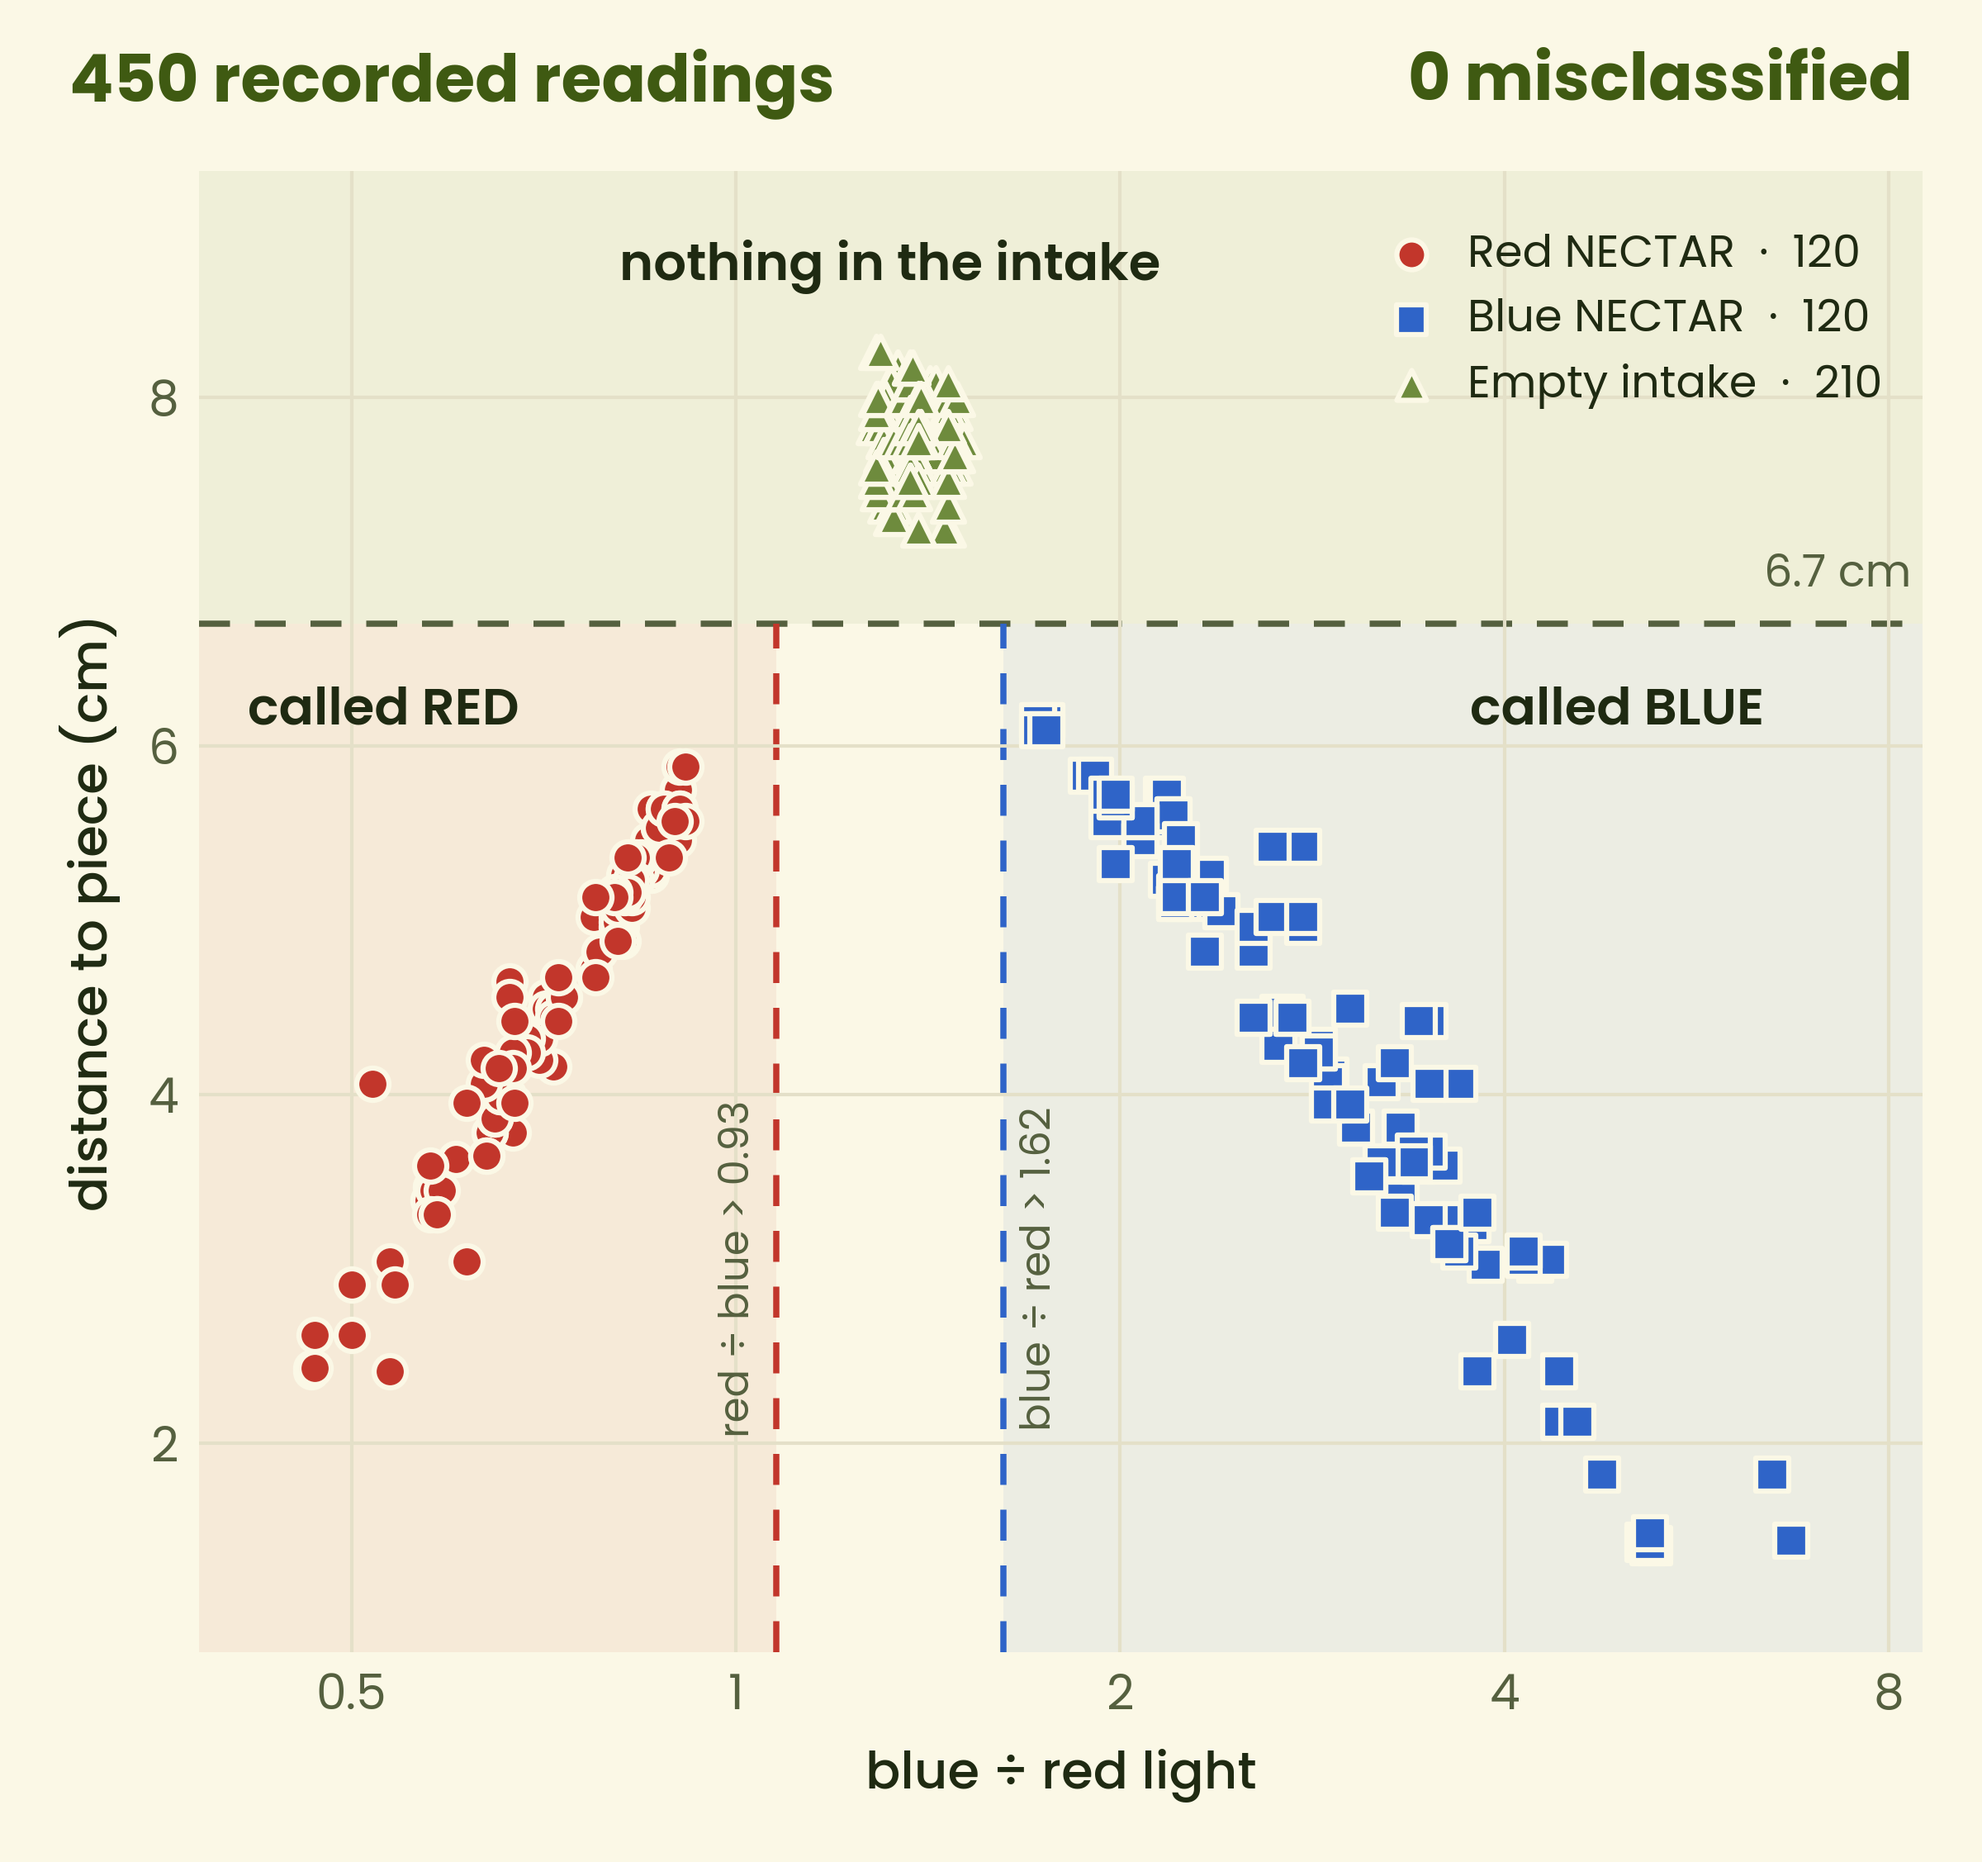
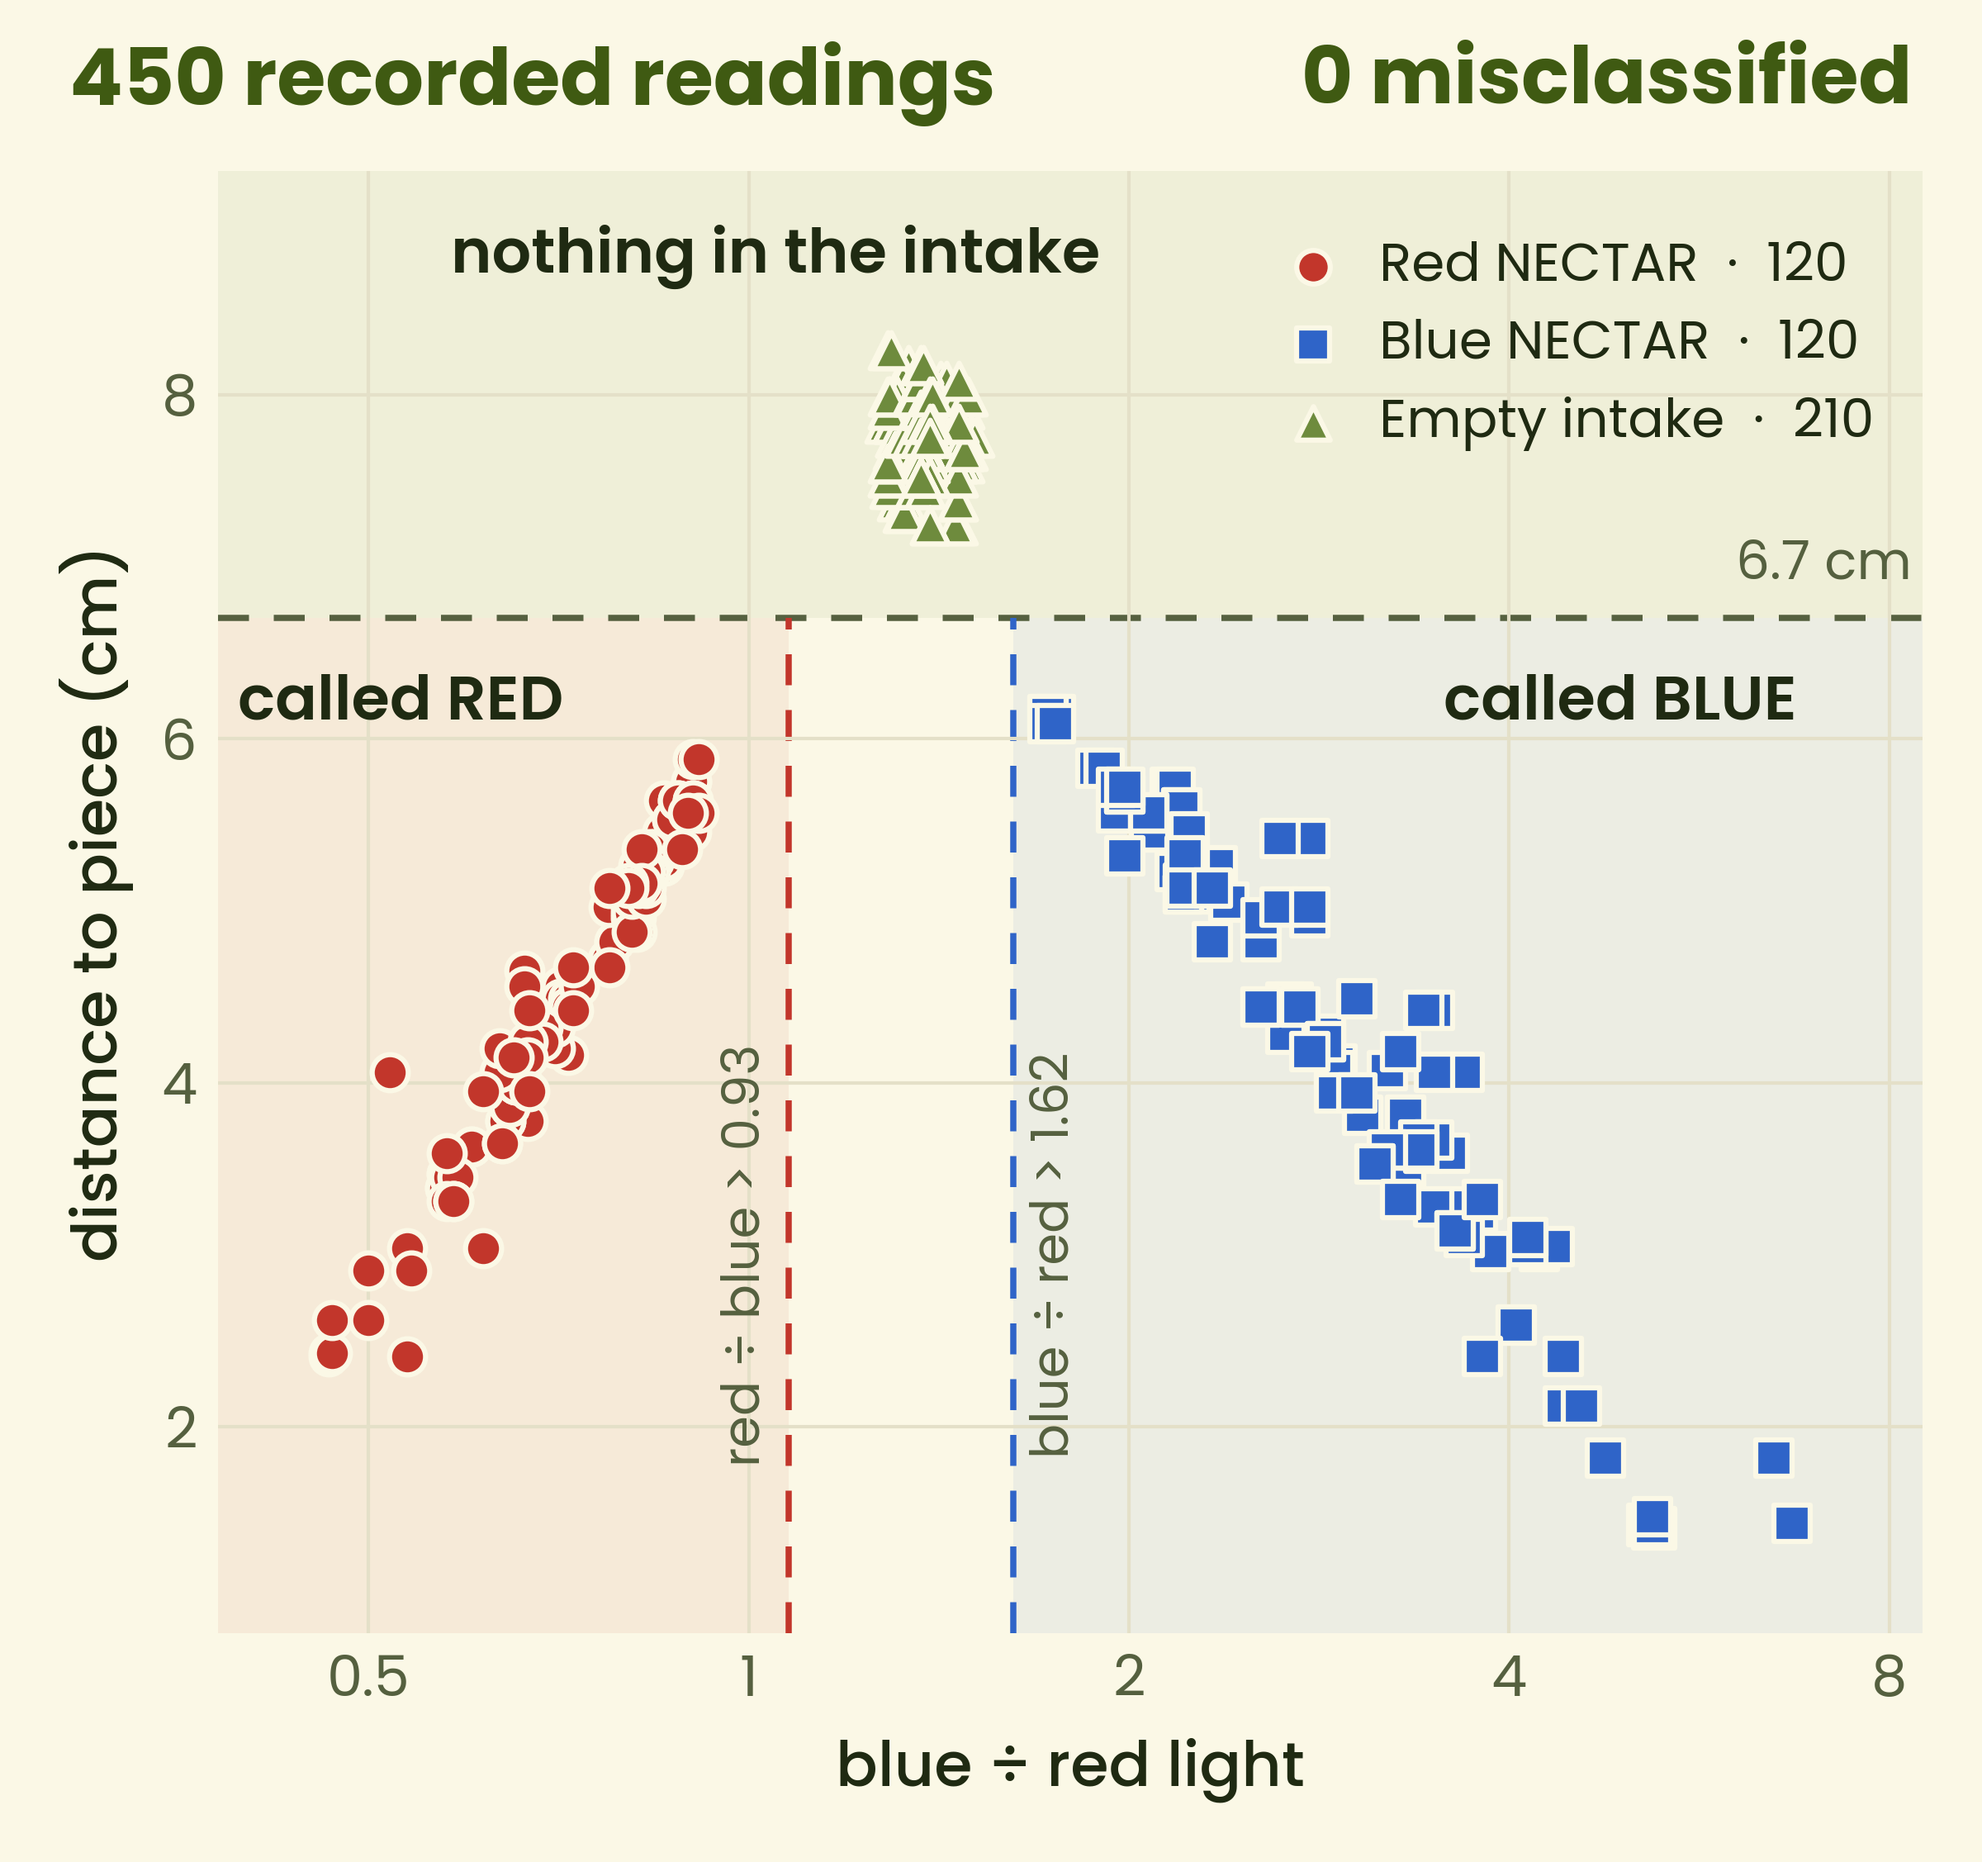
Portfolio chart: type sized for the slide (nothing under ~6 pt at panel scale) (tool)

diff --git a/tools/portfolio/color_reject_chart.py b/tools/portfolio/color_reject_chart.py
@@ -92,7 +92,7 @@ def main():
     for label, colour, marker, name in CLASSES:
         xs = [p[0] for p in pts[label]]
         ys = [p[1] for p in pts[label]]
-        ax.scatter(xs, ys, s=88, marker=marker, color=colour, edgecolors=SURFACE, linewidths=1.5, zorder=3,
+        ax.scatter(xs, ys, s=110, marker=marker, color=colour, edgecolors=SURFACE, linewidths=1.5, zorder=3,
                    label=f"{name}  ·  {len(xs)}")
 
     ax.set_xscale("log")
@@ -102,30 +102,30 @@ def main():
     ax.set_xticklabels(["0.5", "1", "2", "4", "8"])
     ax.set_xticks([], minor=True)
     ax.set_yticks([2, 4, 6, 8])
-    ax.set_xlabel("blue ÷ red light", color=INK, fontsize=15, fontweight="medium", labelpad=8)
-    ax.set_ylabel("distance to piece (cm)", color=INK, fontsize=15, fontweight="medium", labelpad=8)
-    ax.tick_params(colors=INK2, length=0, labelsize=14, pad=6)
+    ax.set_xlabel("blue ÷ red light", color=INK, fontsize=18, fontweight="medium", labelpad=8)
+    ax.set_ylabel("distance to piece (cm)", color=INK, fontsize=18, fontweight="medium", labelpad=8)
+    ax.tick_params(colors=INK2, length=0, labelsize=16.5, pad=6)
     ax.grid(True, which="major", color=GRID, lw=1, zorder=0)
     for s in ax.spines.values():
         s.set_visible(False)
 
     # region names (ink; colour is carried by the marks and tints) and threshold values
-    ax.text(0.53, 6.2, "called RED", color=INK, fontsize=15, fontweight="semibold", ha="center", va="center")
-    ax.text(4.9, 6.2, "called BLUE", color=INK, fontsize=15, fontweight="semibold", ha="center", va="center")
-    ax.text(1.32, 8.75, "nothing in the intake", color=INK, fontsize=15, fontweight="semibold", ha="center",
+    ax.text(0.53, 6.2, "called RED", color=INK, fontsize=18, fontweight="semibold", ha="center", va="center")
+    ax.text(4.9, 6.2, "called BLUE", color=INK, fontsize=18, fontweight="semibold", ha="center", va="center")
+    ax.text(1.05, 8.8, "nothing in the intake", color=INK, fontsize=18, fontweight="semibold", ha="center",
             va="center")
-    ax.text(X_MAX / 1.02, MAX_DIST_CM + 0.15, "6.7 cm", color=INK2, fontsize=13, ha="right", va="bottom")
-    ax.text(x_red / 1.03, 3.0, "red ÷ blue > 0.93", color=INK2, fontsize=12, rotation=90, ha="right", va="center")
-    ax.text(x_blue * 1.03, 3.0, "blue ÷ red > 1.62", color=INK2, fontsize=12, rotation=90, ha="left", va="center")
+    ax.text(X_MAX / 1.02, MAX_DIST_CM + 0.15, "6.7 cm", color=INK2, fontsize=15.5, ha="right", va="bottom")
+    ax.text(x_red / 1.03, 3.0, "red ÷ blue > 0.93", color=INK2, fontsize=15, rotation=90, ha="right", va="center")
+    ax.text(x_blue * 1.03, 3.0, "blue ÷ red > 1.62", color=INK2, fontsize=15, rotation=90, ha="left", va="center")
 
-    leg = ax.legend(loc="upper right", bbox_to_anchor=(1.0, 0.985), frameon=False, fontsize=13, handletextpad=0.25,
+    leg = ax.legend(loc="upper right", bbox_to_anchor=(1.0, 0.985), frameon=False, fontsize=15.5, handletextpad=0.25,
                     labelspacing=0.45, labelcolor=INK)
     for h in leg.legend_handles:
-        h.set_sizes([75])
+        h.set_sizes([95])
 
-    fig.text(0.035, 0.955, f"{len(rows)} recorded readings", color=HEAD, fontsize=19, fontweight="bold",
+    fig.text(0.035, 0.955, f"{len(rows)} recorded readings", color=HEAD, fontsize=23, fontweight="bold",
              ha="left", va="center")
-    fig.text(0.965, 0.955, f"{wrong} misclassified", color=HEAD, fontsize=19, fontweight="bold", ha="right",
+    fig.text(0.965, 0.955, f"{wrong} misclassified", color=HEAD, fontsize=23, fontweight="bold", ha="right",
              va="center")
 
     fig.tight_layout(rect=(0, 0, 1, 0.94))
